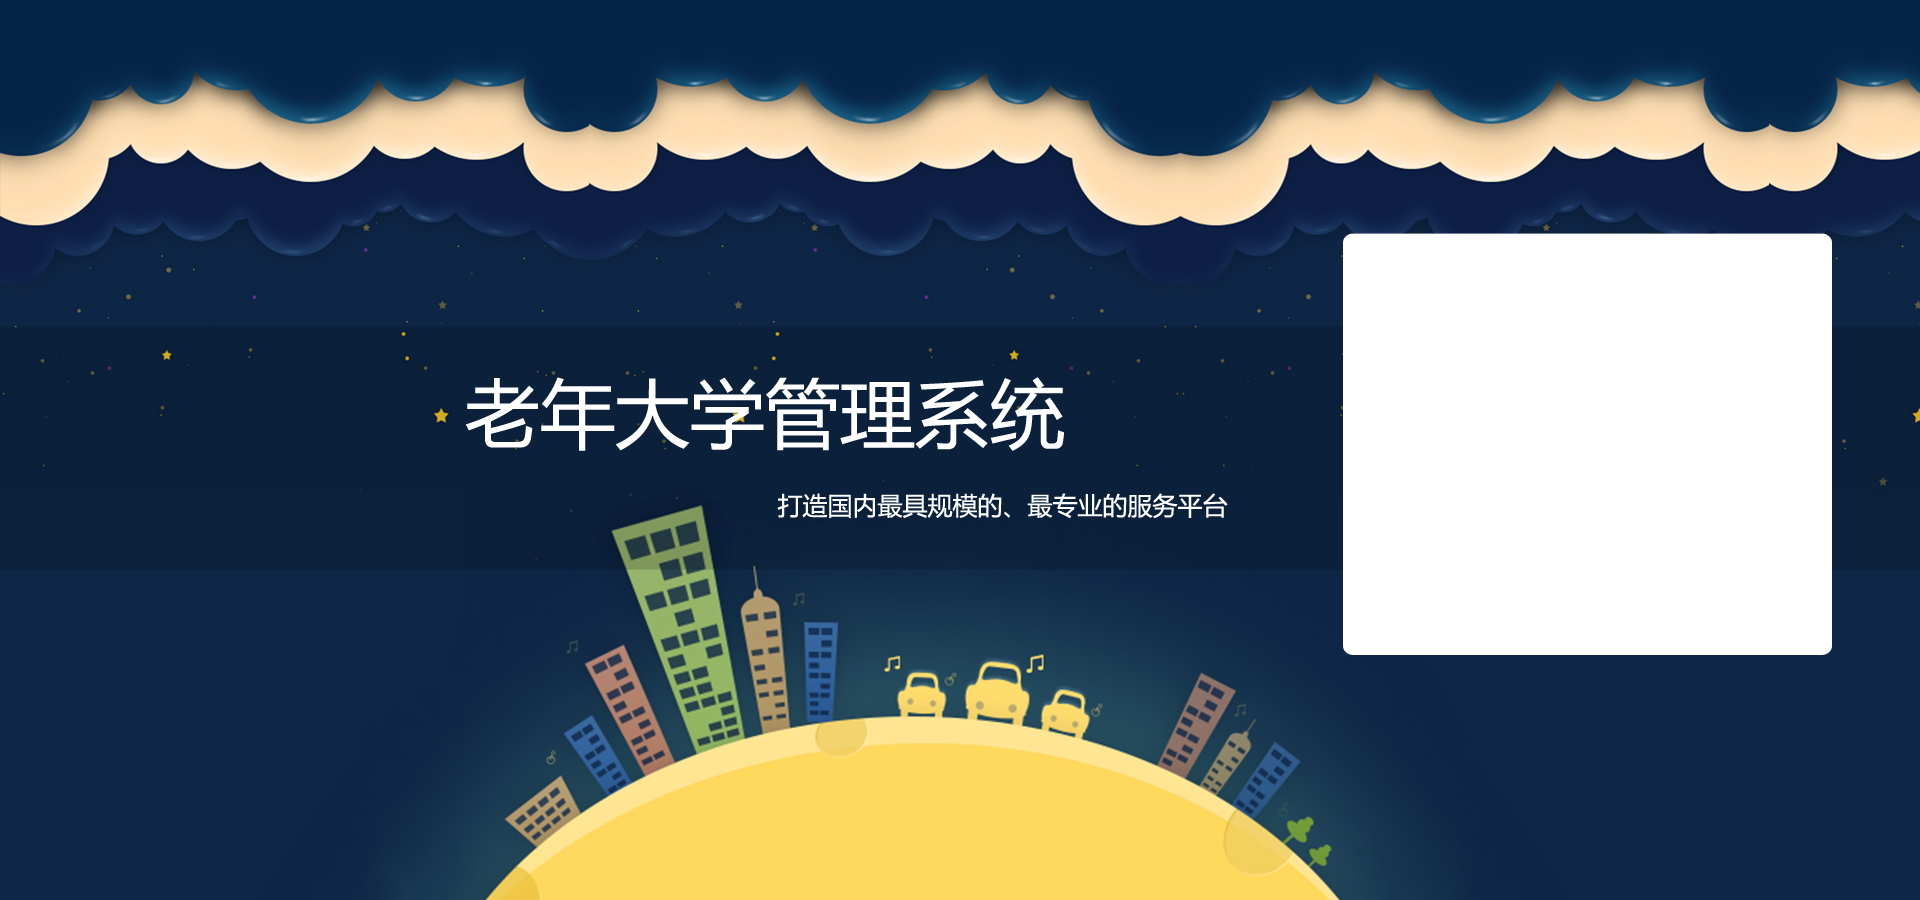
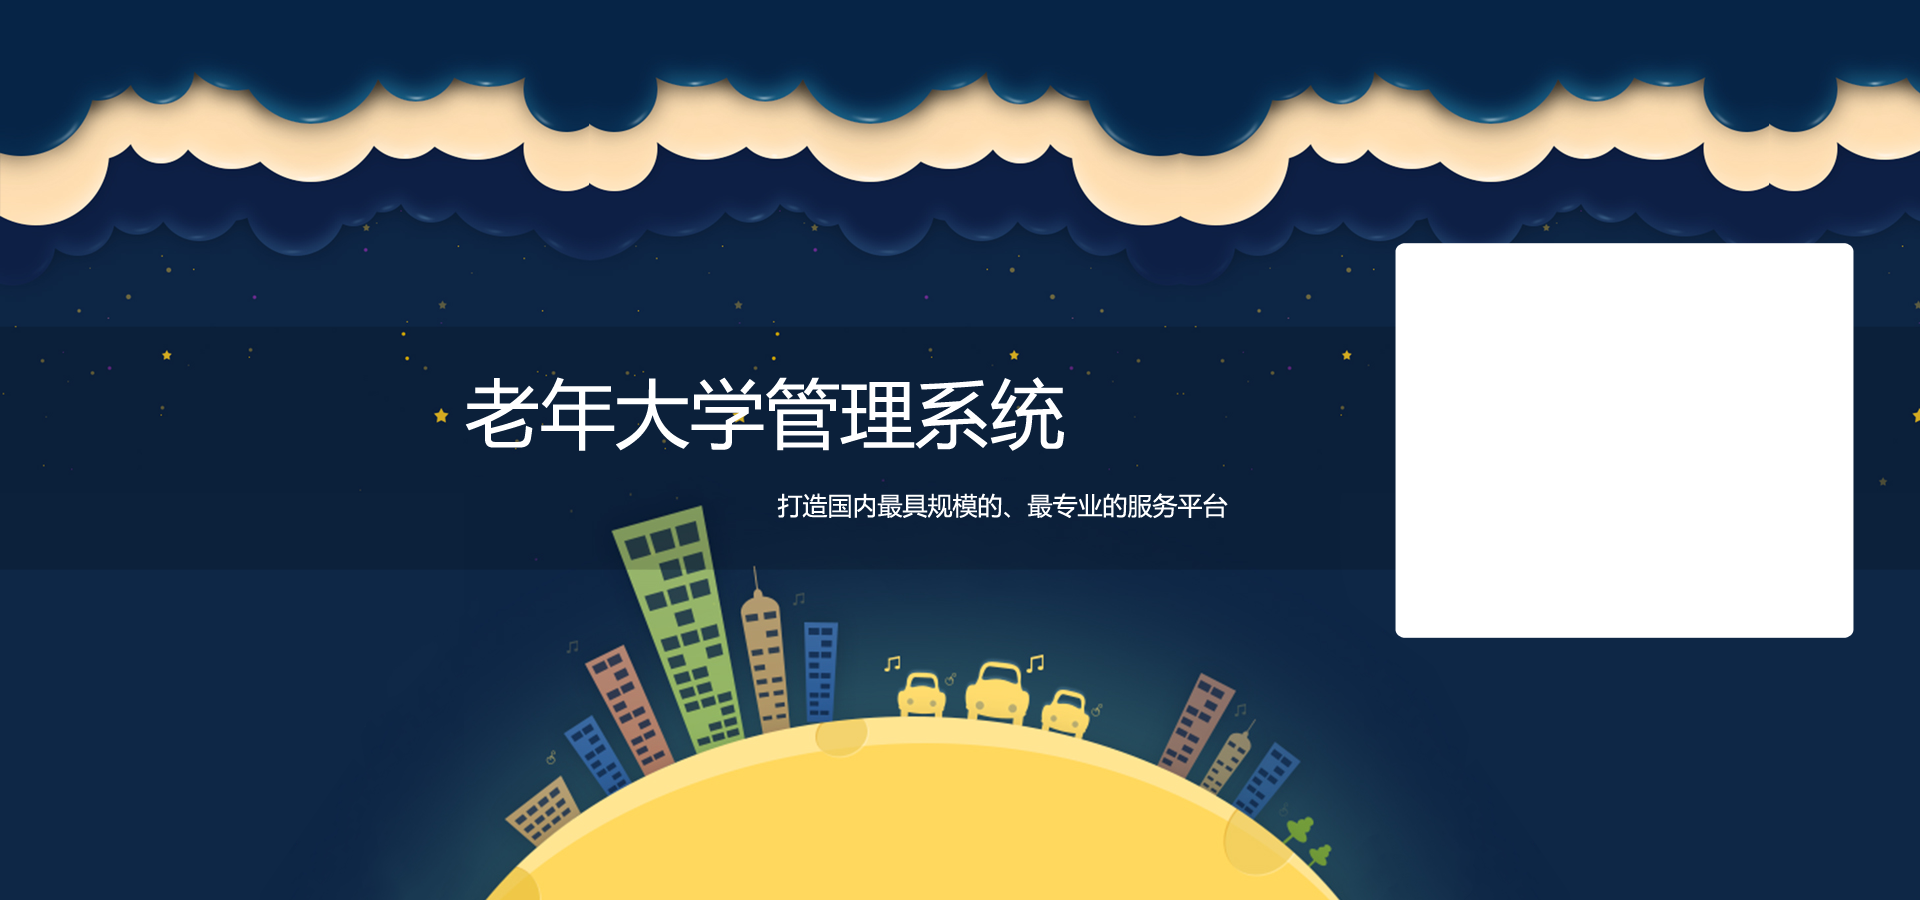
no message

Changed region(s): [[0.6875, 0.2489, 0.9688, 0.7467]]

diff --git a/src/pages/User/Login.js b/src/pages/User/Login.js
@@ -82,8 +82,8 @@ class LoginPage extends Component {
     <Alert style={{
        marginBottom: 24 ,
       position: "absolute" ,
-      right: 200,
-      top: 230}} message={content} type="error" showIcon />
+      right: 165,
+      top: 240}} message={content} type="error" showIcon />
   );
 
   render() {
@@ -97,7 +97,7 @@ class LoginPage extends Component {
     return (
       <div className={styles.main} style={{
         marginTop:235,
-        marginRight:140
+        marginRight:100
       }}>
       { showWarnMsg &&
         this.renderMessage(formatMessage({ id: 'app.login.message-invalid-credentials' }))}
